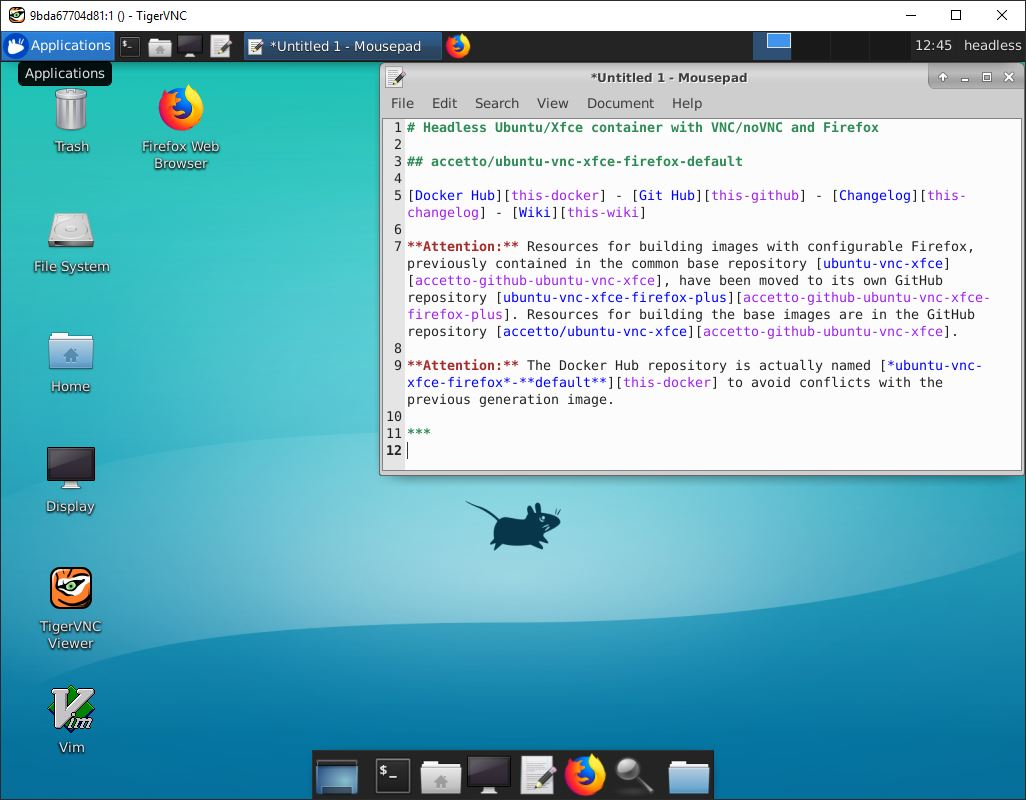
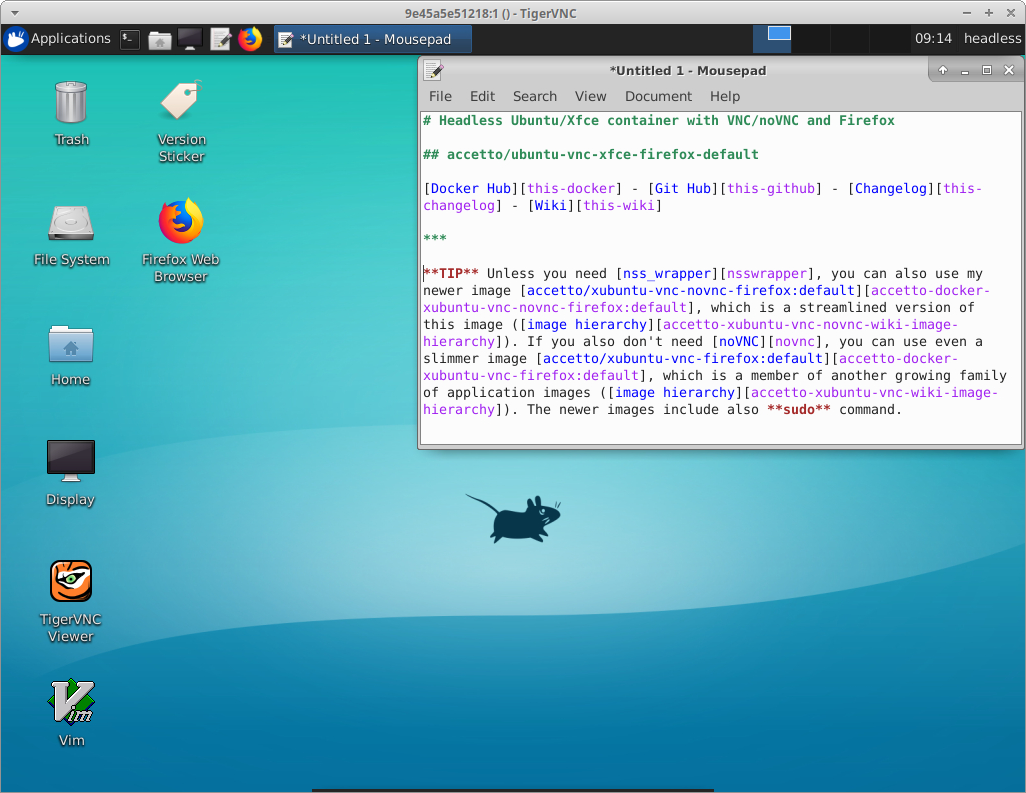
Release 20.02.1

diff --git a/README.md b/README.md
@@ -22,6 +22,12 @@
 
 ***
 
+**WARNING** for Windows users
+
+**Docker Desktop** (Docker for Windows) version **2.2.0.0** has introduced a new way of working with host's files. Unfortunately even the current version **2.2.0.3** leaves several issues with **bind mounts** unresolved. For example, I've found that **Firefox profiles** stored in bound host's folders don't persist modifications correctly. Firefox profiles stored in containers itself (writable layer) or on Docker managed volumes work correctly. If you need to use bind mounts, I wouldn't recommend upgrading to version 2.2 yet, because downgrading is not possible. The only way is to completely re-install the last working version **2.1.0.5**. However, you'll loose all the images and containers, so backup them first.
+
+***
+
 **Attention:** Resources for building images with configurable Firefox, previously contained in the common base repository [ubuntu-vnc-xfce][accetto-github-ubuntu-vnc-xfce], have been moved to its own GitHub repository [ubuntu-vnc-xfce-firefox-plus][accetto-github-ubuntu-vnc-xfce-firefox-plus]. Resources for building the base images are in the GitHub repository [accetto/ubuntu-vnc-xfce][accetto-github-ubuntu-vnc-xfce].
 
 **Attention:** The Docker Hub repository is actually named [*ubuntu-vnc-xfce-firefox*-**default**][this-docker] to avoid conflicts with the previous generation image.
@@ -333,6 +339,6 @@ Credit goes to all the countless people and companies who contribute to open sou
 
 <!-- latest tag badges -->
 
-[badge-VERSION_STICKER_LATEST]: https://badgen.net/badge/version%20sticker/ubuntu18.04.3-firefox72.0.2/blue
+[badge-VERSION_STICKER_LATEST]: https://badgen.net/badge/version%20sticker/ubuntu18.04.3-firefox73.0/blue
 
 [badge-github-commit-latest]: https://images.microbadger.com/badges/commit/accetto/ubuntu-vnc-xfce-firefox-default.svg

diff --git a/CHANGELOG.md b/CHANGELOG.md
@@ -8,6 +8,13 @@
 
 ***
 
+### Release 20.02.1
+
+- Firefox **73.0**
+- desktop launcher for version sticker script (verbose) (inherited from the base)
+- container screenshot updated
+- **README** updated
+
 ### Release 20.02
 
 - Firefox **72.0.2**
